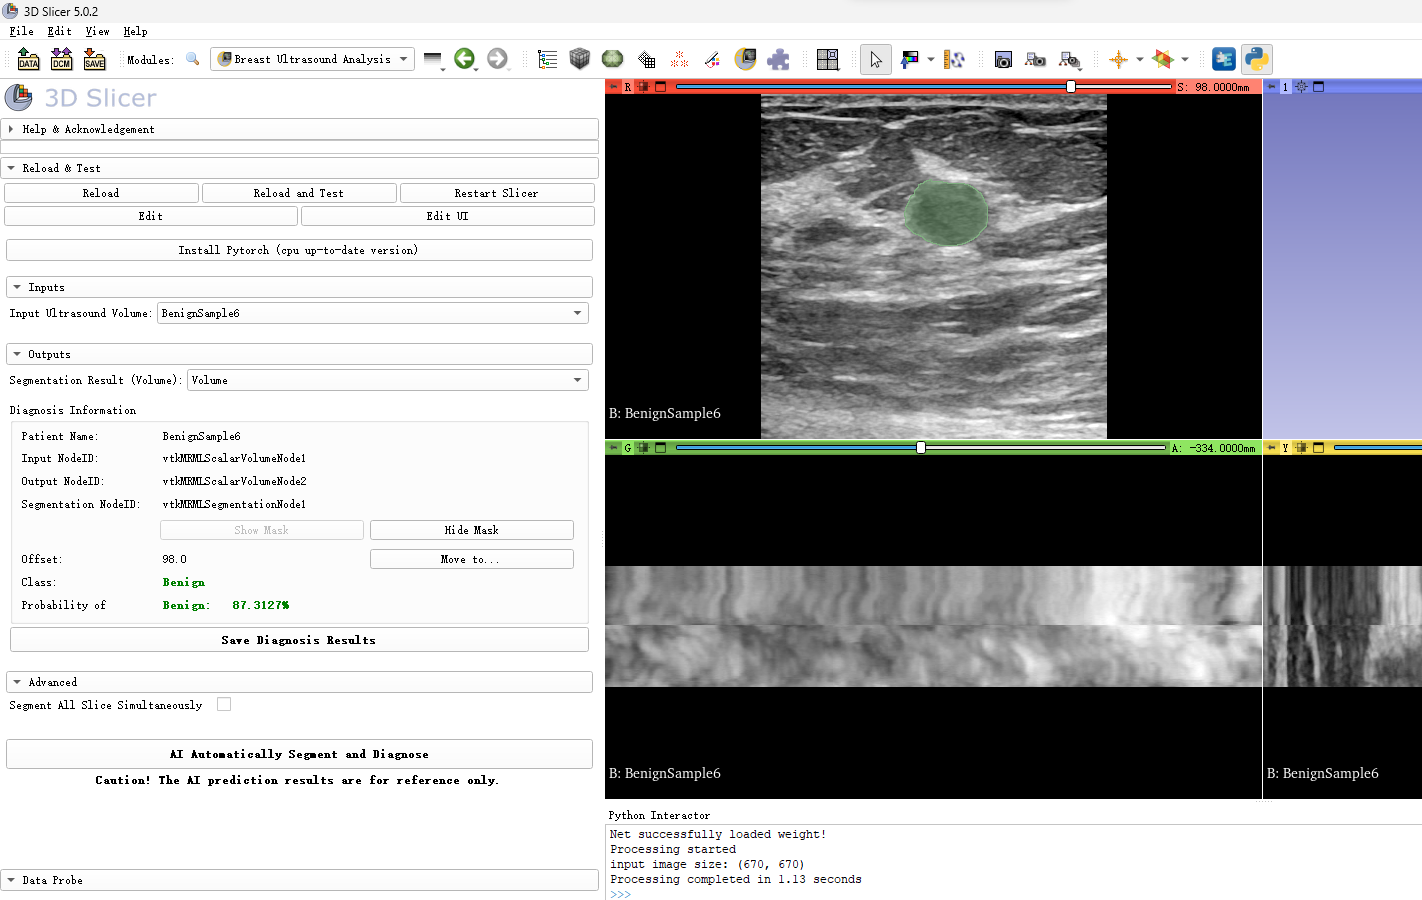
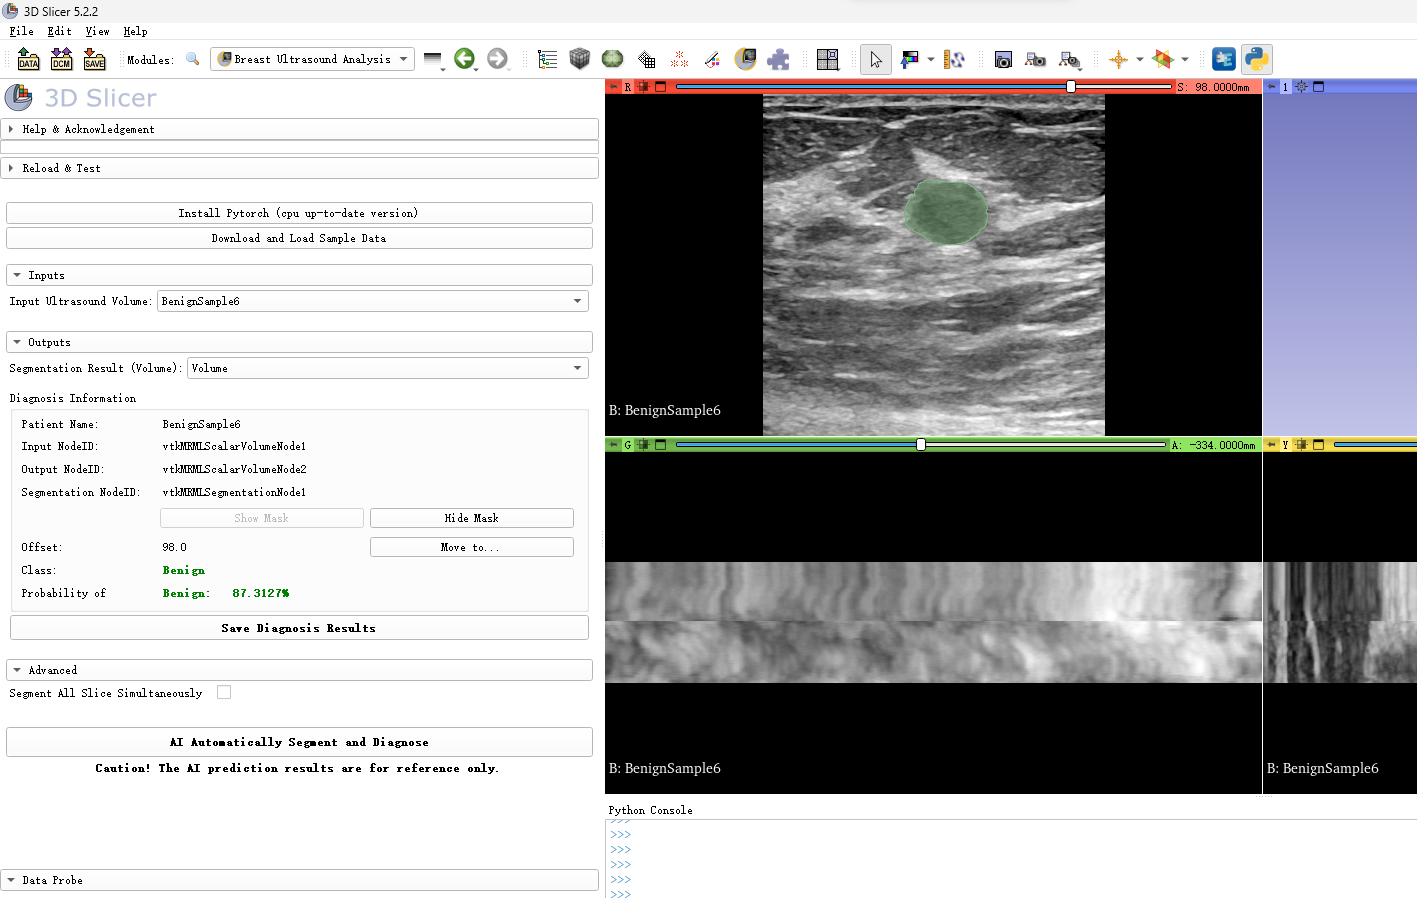
update code, readme. depend PyTorch

diff --git a/BUS_Diagnosis/BUS_Diagnosis.py b/BUS_Diagnosis/BUS_Diagnosis.py
@@ -1,5 +1,7 @@
 import logging
 import os
+import requests
+import time
 
 import vtk
 
@@ -20,6 +22,18 @@ try:
   import torch.utils.model_zoo as model_zoo
   from torchvision import transforms
 except:
+  try:
+    import PyTorchUtils
+  except ModuleNotFoundError as e:
+    raise RuntimeError("This module requires PyTorch extension. Install it from the Extensions Manager.")
+  
+  torchLogic = PyTorchUtils.PyTorchUtilsLogic()
+  if not torchLogic.torchInstalled():
+    logging.info('PyTorch Python package is required. Installing... (it may take several minutes)')
+    torch = torchLogic.installTorch(askConfirmation=True)
+    if torch is None:
+      raise ValueError('PyTorch extension needs to be installed to use this module.')
+    
   slicer.util.pip_install('torch torchvision torchaudio')
   from PIL import Image
   import torch
@@ -57,43 +71,43 @@ See more information in https://github.com/ZhyBrian/SlicerBreastUltrasoundAnalys
 """
 
     # Additional initialization step after application startup is complete
-    slicer.app.connect("startupCompleted()", registerSampleData)
+    # slicer.app.connect("startupCompleted()", registerSampleData)
 
 
 # 
 # Register sample data sets in Sample Data module
 # 
 
-def registerSampleData():
-  """
-  Add data sets to Sample Data module.
-  """
-  # It is always recommended to provide sample data for users to make it easy to try the module,
-  # but if no sample data is available then this method (and associated startupCompeted signal connection) can be removed.
+# def registerSampleData():
+#   """
+#   Add data sets to Sample Data module.
+#   """
+#   # It is always recommended to provide sample data for users to make it easy to try the module,
+#   # but if no sample data is available then this method (and associated startupCompeted signal connection) can be removed.
 
-  import SampleData
-  iconsPath = os.path.join(os.path.dirname(__file__), 'Resources/Icons')
+#   import SampleData
+#   iconsPath = os.path.join(os.path.dirname(__file__), 'Resources/Icons')
 
-  # To ensure that the source code repository remains small (can be downloaded and installed quickly)
-  # it is recommended to store data sets that are larger than a few MB in a Github release.
+#   # To ensure that the source code repository remains small (can be downloaded and installed quickly)
+#   # it is recommended to store data sets that are larger than a few MB in a Github release.
 
-  # BenignSample6
-  SampleData.SampleDataLogic.registerCustomSampleDataSource(
-    # Category and sample name displayed in Sample Data module
-    category='BreastUltrasoundAnalysisSampleData',
-    sampleName='BenignSample6',
-    # Thumbnail should have size of approximately 260x280 pixels and stored in Resources/Icons folder.
-    # It can be created by Screen Capture module, "Capture all views" option enabled, "Number of images" set to "Single".
-    thumbnailFileName=os.path.join(iconsPath, 'BenignSample6.png'),
-    # Download URL and target file name
-    uris="https://link.jscdn.cn/googledrive/direct/aHR0cHM6Ly9kcml2ZS5nb29nbGUuY29tL2ZpbGUvZC8xMWVUQzktV0xqb3AzOWEzZzdIUnJoSUwtNWduUVEwQXkvdmlldz91c3A9c2hhcmluZw.nrrd",
-    fileNames='BenignSample6.nrrd',
-    # Checksum to ensure file integrity. Can be computed by this command:
-    #  import hashlib; print(hashlib.sha256(open(filename, "rb").read()).hexdigest())
[1 lines of base64/hex data omitted]
-    # This node name will be used when the data set is loaded
-    nodeNames='BenignSample6'
-  )
+#   # BenignSample6
+#   SampleData.SampleDataLogic.registerCustomSampleDataSource(
+#     # Category and sample name displayed in Sample Data module
+#     category='BreastUltrasoundAnalysisSampleData',
+#     sampleName='BenignSample6',
+#     # Thumbnail should have size of approximately 260x280 pixels and stored in Resources/Icons folder.
+#     # It can be created by Screen Capture module, "Capture all views" option enabled, "Number of images" set to "Single".
+#     thumbnailFileName=os.path.join(iconsPath, 'BenignSample6.png'),
+#     # Download URL and target file name
+#     uris="https://github.com/ZhyBrian/SlicerBreastUltrasoundAnalysis/releases/download/v0.0.1/BenignSample6.nrrd",
+#     fileNames='BenignSample6.nrrd',
+#     # Checksum to ensure file integrity. Can be computed by this command:
+#     #  import hashlib; print(hashlib.sha256(open(filename, "rb").read()).hexdigest())
[1 lines of base64/hex data omitted]
+#     # This node name will be used when the data set is loaded
+#     nodeNames='BenignSample6'
+#   )
 
 # import hashlib
 # print(hashlib.sha256(open(r"C:\Users\84497\Desktop\BenignSample6.nrrd", "rb").read()).hexdigest())
@@ -166,7 +180,7 @@ class BUS_DiagnosisWidget(ScriptedLoadableModuleWidget, VTKObservationMixin):
     self.progressDiag.setWindowModality(2)
     self.progressDiag.setMinimum(0)
     self.progressDiag.setMaximum(1)
-    self.progressDiag.setFixedSize(330, 50)
+    self.progressDiag.setFixedSize(380, 50)
     self.progressDiag.setAutoClose(False)
     self.progressDiag.setCancelButton(None)
     self.progressDiag.close()
@@ -176,6 +190,7 @@ class BUS_DiagnosisWidget(ScriptedLoadableModuleWidget, VTKObservationMixin):
     # Buttons
     self.ui.applyButton.connect('clicked(bool)', self.onApplyButton)
     self.ui.installPytorchButton.connect('clicked(bool)', self.onInstallPytorchButton)
+    self.ui.pushButtonDownloadSample.connect('clicked(bool)', self.onPushButtonDownloadSample)
     self.ui.pushButtonHideSeg.connect('clicked(bool)', self.onPushButtonHideSeg)
     self.ui.pushButtonShowSeg.connect('clicked(bool)', self.onPushButtonShowSeg)
     self.ui.movetoOffsetButton.connect('clicked(bool)', self.onMovetoOffsetButton)
@@ -358,6 +373,13 @@ class BUS_DiagnosisWidget(ScriptedLoadableModuleWidget, VTKObservationMixin):
     """
     with slicer.util.tryWithErrorDisplay("Failed to compute results.", waitCursor=True):
       
+      isload = self.logic.setupNet(self.progressDiag)
+      if not isload:
+        qt.QMessageBox.information(slicer.util.mainWindow(), "Warning", "Net weight failed to be loaded. \nAI is unable to provide appropriate diagnosis results.")
+        return
+      
+      self.progressDiag.setWindowTitle("Processing...")
+      self.progressDiag.setLabelText("Please Wait...")
       self.progressDiag.show()
       # Compute output
       isSegmentMoreThanOneSlice = self.logic.process(self.ui.inputSelector.currentNode(), 
@@ -381,6 +403,19 @@ class BUS_DiagnosisWidget(ScriptedLoadableModuleWidget, VTKObservationMixin):
     import torch
     logging.info(f'From BUS_Diagnosis: torch version: {torch.__version__}')
   
+  def onPushButtonDownloadSample(self):
+    directory = qt.QFileDialog.getExistingDirectory(slicer.util.mainWindow(), "Choose a Folder", "./")
+    if os.path.exists(directory):
+      url = "https://github.com/ZhyBrian/SlicerBreastUltrasoundAnalysis/releases/download/v0.0.1/BenignSample6.nrrd"
+      name = "BenignSample6.nrrd"
+      if not os.path.exists(os.path.join(directory, name)):
+        self.progressDiag.setWindowTitle("Downloading sample data...")
+        self.progressDiag.show()
+        self.logic.downloadShowProgress(url, directory, name, self.progressDiag, showsuccess=0)
+        self.progressDiag.close()
+      if os.path.exists(os.path.join(directory, name)):
+        slicer.util.loadVolume(os.path.join(directory, name))
+      
   
   def onPushButtonHideSeg(self):
     if self.logic.segmentationNode is not None:
@@ -549,13 +584,9 @@ class BUS_DiagnosisLogic(ScriptedLoadableModuleLogic):
     ScriptedLoadableModuleLogic.__init__(self)
     self.device = torch.device('cuda' if torch.cuda.is_available() else 'cpu')
     self.model_seg = Unet(num_seg=1, num_class=2, pretrained=False, backbone='resnet50').to(self.device).eval()
-    weight_path_seg = os.path.join(os.path.dirname(__file__), 'Resources/net_weight.pth')
-    if os.path.exists(weight_path_seg):
-      self.model_seg.load_state_dict(torch.load(weight_path_seg, map_location=torch.device(self.device)))
-      logging.info('Net successfully loaded weight!')
-    else:
-      logging.info('Net weight failed to be loaded!')
-      qt.QMessageBox.information(slicer.util.mainWindow(), "Warning", "Net weight failed to be loaded. \nAI is unable to provide appropriate diagnosis results.")
+    self.weight_path_seg = os.path.join(os.path.dirname(__file__), 'Resources/net_weight.pth')
+    
+    self.weightloaded = 0
 
     self.transform = transforms.Compose([transforms.ToTensor()]) 
     self.wh = 384
@@ -578,6 +609,63 @@ class BUS_DiagnosisLogic(ScriptedLoadableModuleLogic):
     """
     if not parameterNode.GetParameter("SegmentAll"):
       parameterNode.SetParameter("SegmentAll", "false")
+  
+  
+  def downloadShowProgress(self, url, path, name, progressDiag, showsuccess=1):
+    if not os.path.exists(path):   
+      os.mkdir(path)
+    start = time.time() 
+    requests.DEFAULT_RETRIES = 5  
+    s = requests.session()
+    s.keep_alive = False  
+    headers = { 'Connection': 'close',}
+    response = requests.get(url, stream=True, verify=False, headers=headers)
+    size = 0    
+    chunk_size = 1024  
+    content_size = int(response.headers['content-length'])  
+    try:
+      if response.status_code == 200:   
+        progressDiag.setLabelText(f"File size: {content_size/chunk_size/1024:.2f} MB")
+        progressDiag.setMaximum(100)
+        filepath = os.path.join(path, name)
+        with open(filepath,'wb') as file:   
+          for data in response.iter_content(chunk_size = chunk_size):
+            file.write(data)
+            size += len(data)
+            progressDiag.setValue(float(size / content_size * 100))
+      end = time.time()   
+      if showsuccess:
+        qt.QMessageBox.information(slicer.util.mainWindow(), "Information", f"Download successfully! Time spent: {end - start:.2f}s     ")
+    except:
+      qt.QMessageBox.information(slicer.util.mainWindow(), "Error", "Download failed!     ")
+  
+  
+  def setupNet(self, progressDiag):
+    if not self.weightloaded:
+      if not os.path.exists(self.weight_path_seg):
+        url = "https://github.com/ZhyBrian/SlicerBreastUltrasoundAnalysis/releases/download/v0.0.1/net_weight.pth"
+        path = os.path.join(os.path.dirname(__file__), 'Resources')
+        name = "net_weight.pth"
+        
+        progressDiag.setWindowTitle("Downloading net weight(only for once)...")
+        progressDiag.show()
+        self.downloadShowProgress(url, path, name, progressDiag, showsuccess=0)
+        progressDiag.close()
+      
+      try:
+        self.model_seg.load_state_dict(torch.load(self.weight_path_seg, map_location=torch.device(self.device)))
+      except:
+        logging.info('Net weight failed to be loaded!')
+        self.weightloaded = 0
+        return 0
+      else:
+        logging.info('Net successfully loaded weight!')
+        self.weightloaded = 1
+        return 1
+    else:
+      return 1
+        
+
 
   def keep_image_size_open_mask_test(self, input_img, size, scale_method='ANTIALIAS'):
     logging.info(f'input image size: {input_img.shape}')

diff --git a/README.md b/README.md
@@ -16,7 +16,7 @@ The AI prediction algorithm integrated in this module will be continuously updat
 
 
 
-To enable this module, [PyTorch](https://pytorch.org/) must be installed in your 3D Slicer. **This module will install them automatically when you restart 3D Slicer for the first time after installing this module(so please be patient at that time).** If the automatic installation fails, check that your network connection is available and try entering the following code in Python Interactor: 
+To enable this module, [PyTorch](https://pytorch.org/) must be installed in your 3D Slicer. **This module will install them automatically when you restart 3D Slicer for the first time after installing this module(so please be patient at that time).** If the automatic installation fails, check that your network connection is available and try entering the following code in Python Interactor(or Python Console): 
 
 ```python
 slicer.util.pip_install('torch torchvision torchaudio')
@@ -40,7 +40,7 @@ Please restart 3D Slicer after installation to enable this module.
 
 ### Tutorial
 
-1. Import breast ultrasound images in DICOM format(PNG format is available but not recommended) into 3D Slicer through `Add DICOM Data` module.(Sample Data can be downloaded [here(Google Drive)](https://drive.google.com/file/d/11eTC9-WLjop39a3g7HRrhIL-5gnQQ0Ay/view?usp=sharing) or [here(Jianguo Yun)](https://www.jianguoyun.com/p/DXJYhssQyoG8CxjFj_oEIAA))
+1. Import breast ultrasound images in DICOM format(PNG format is available but not recommended) into 3D Slicer through `Add DICOM Data` module.(Sample Data can be downloaded and loaded by clicking `Download and Load Sample Data` button. Other download links: [SampleData(Google Drive)](https://drive.google.com/file/d/11eTC9-WLjop39a3g7HRrhIL-5gnQQ0Ay/view?usp=sharing), [SampleData(Jianguo Yun)](https://www.jianguoyun.com/p/DXJYhssQyoG8CxjFj_oEIAA))
 
 2. Jump to `Breast Ultrasound Analysis` module and select the ultrasound volume you just imported as the input of the AI prediction algorithm in this module.
 
